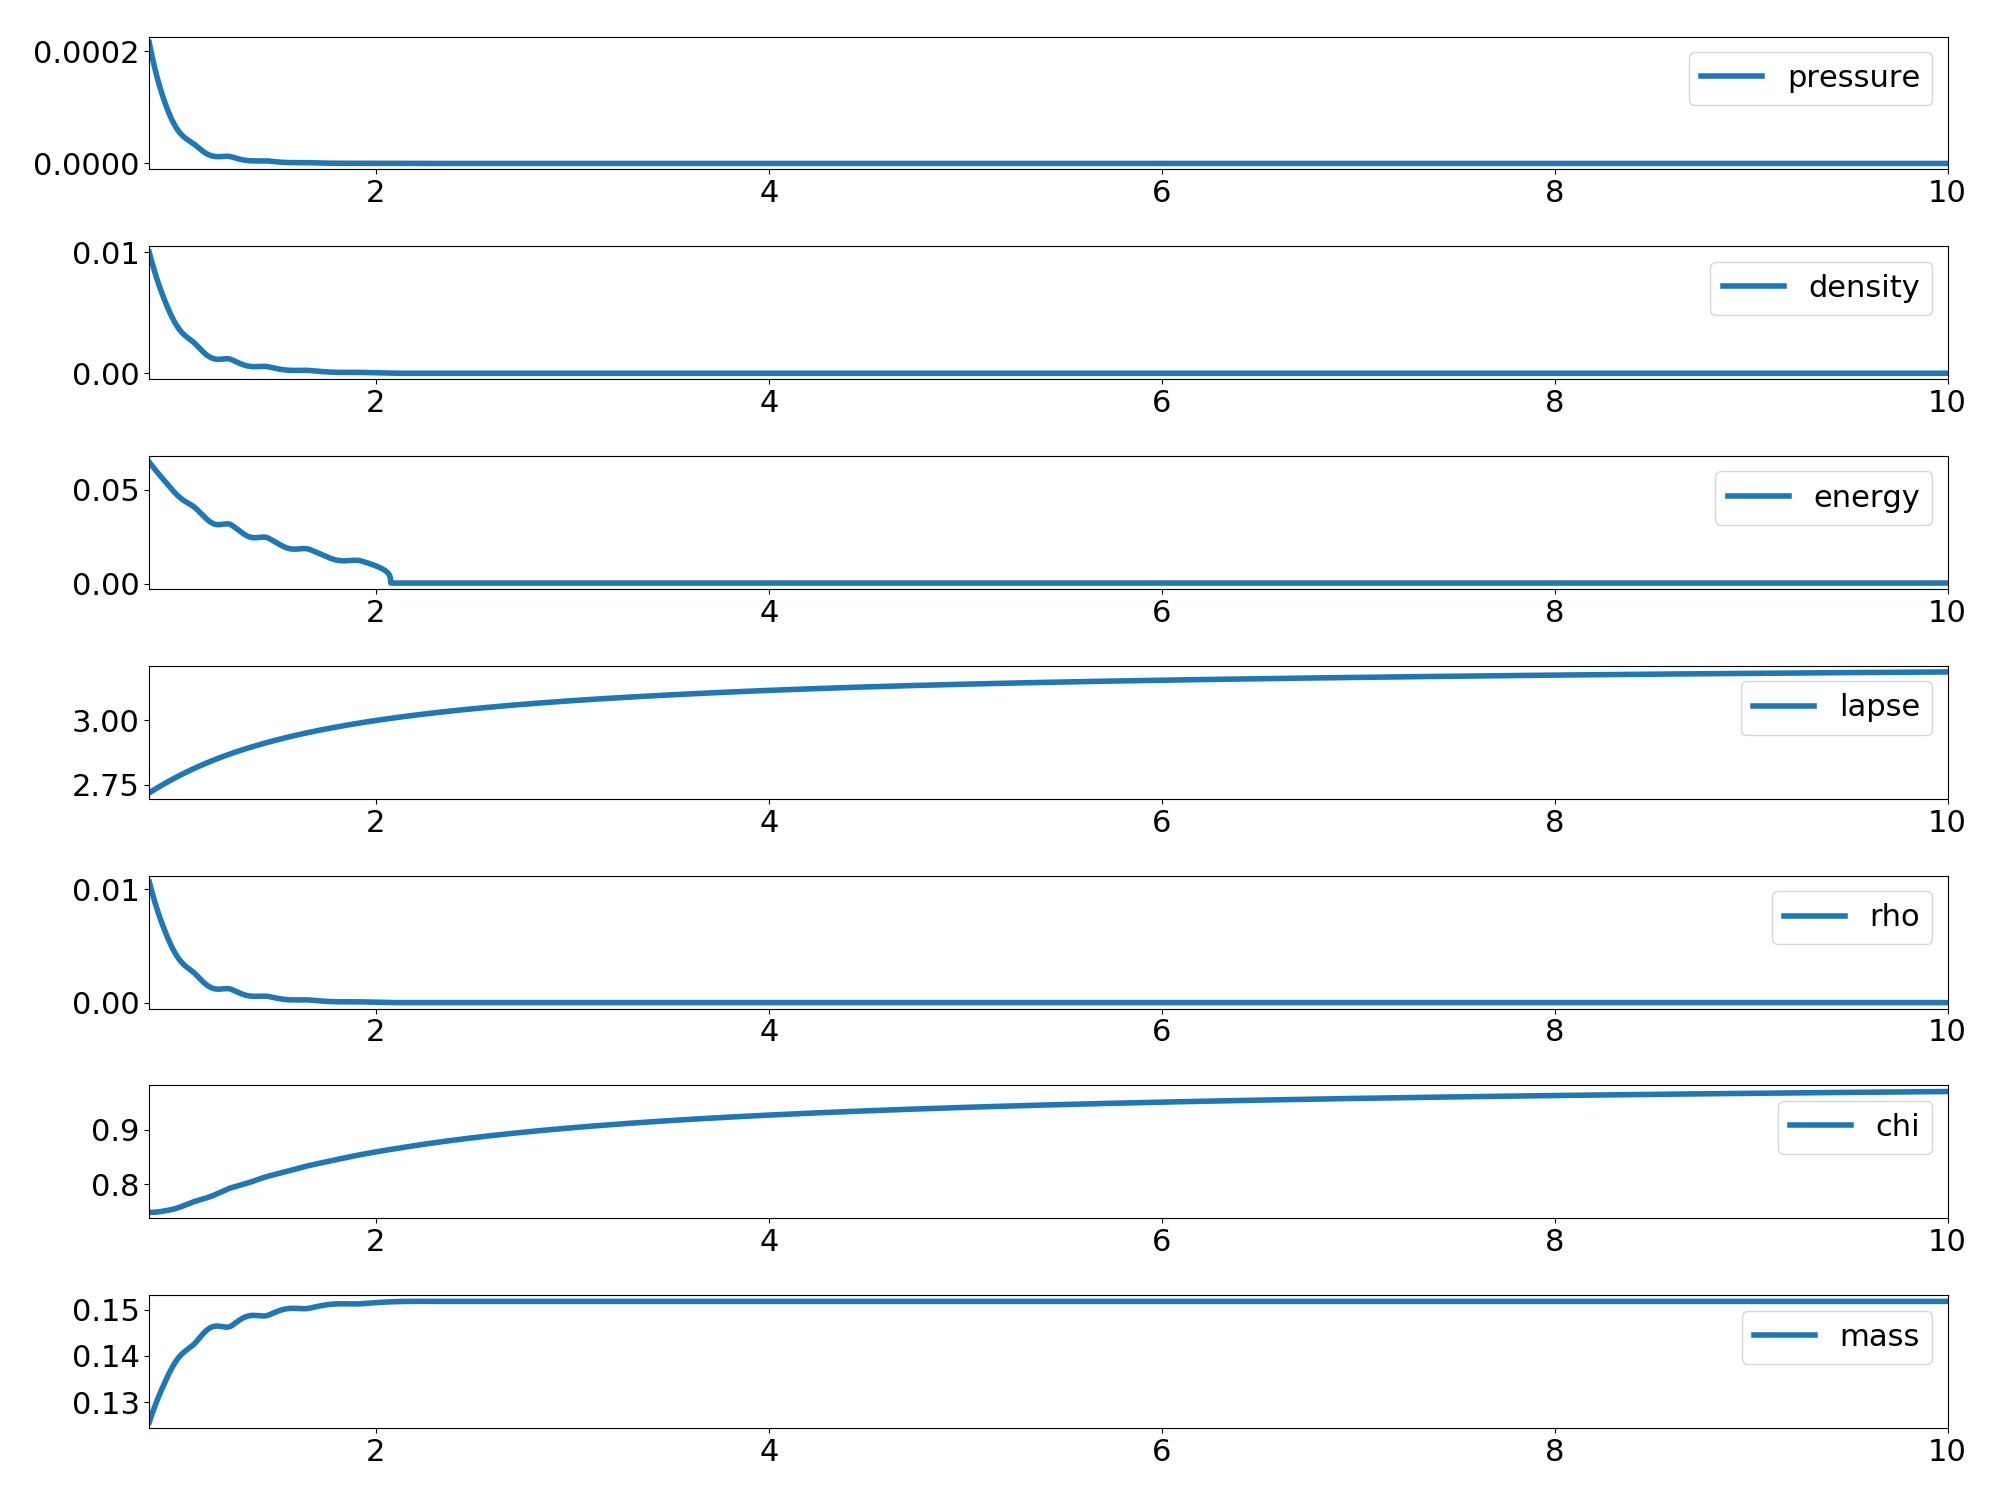
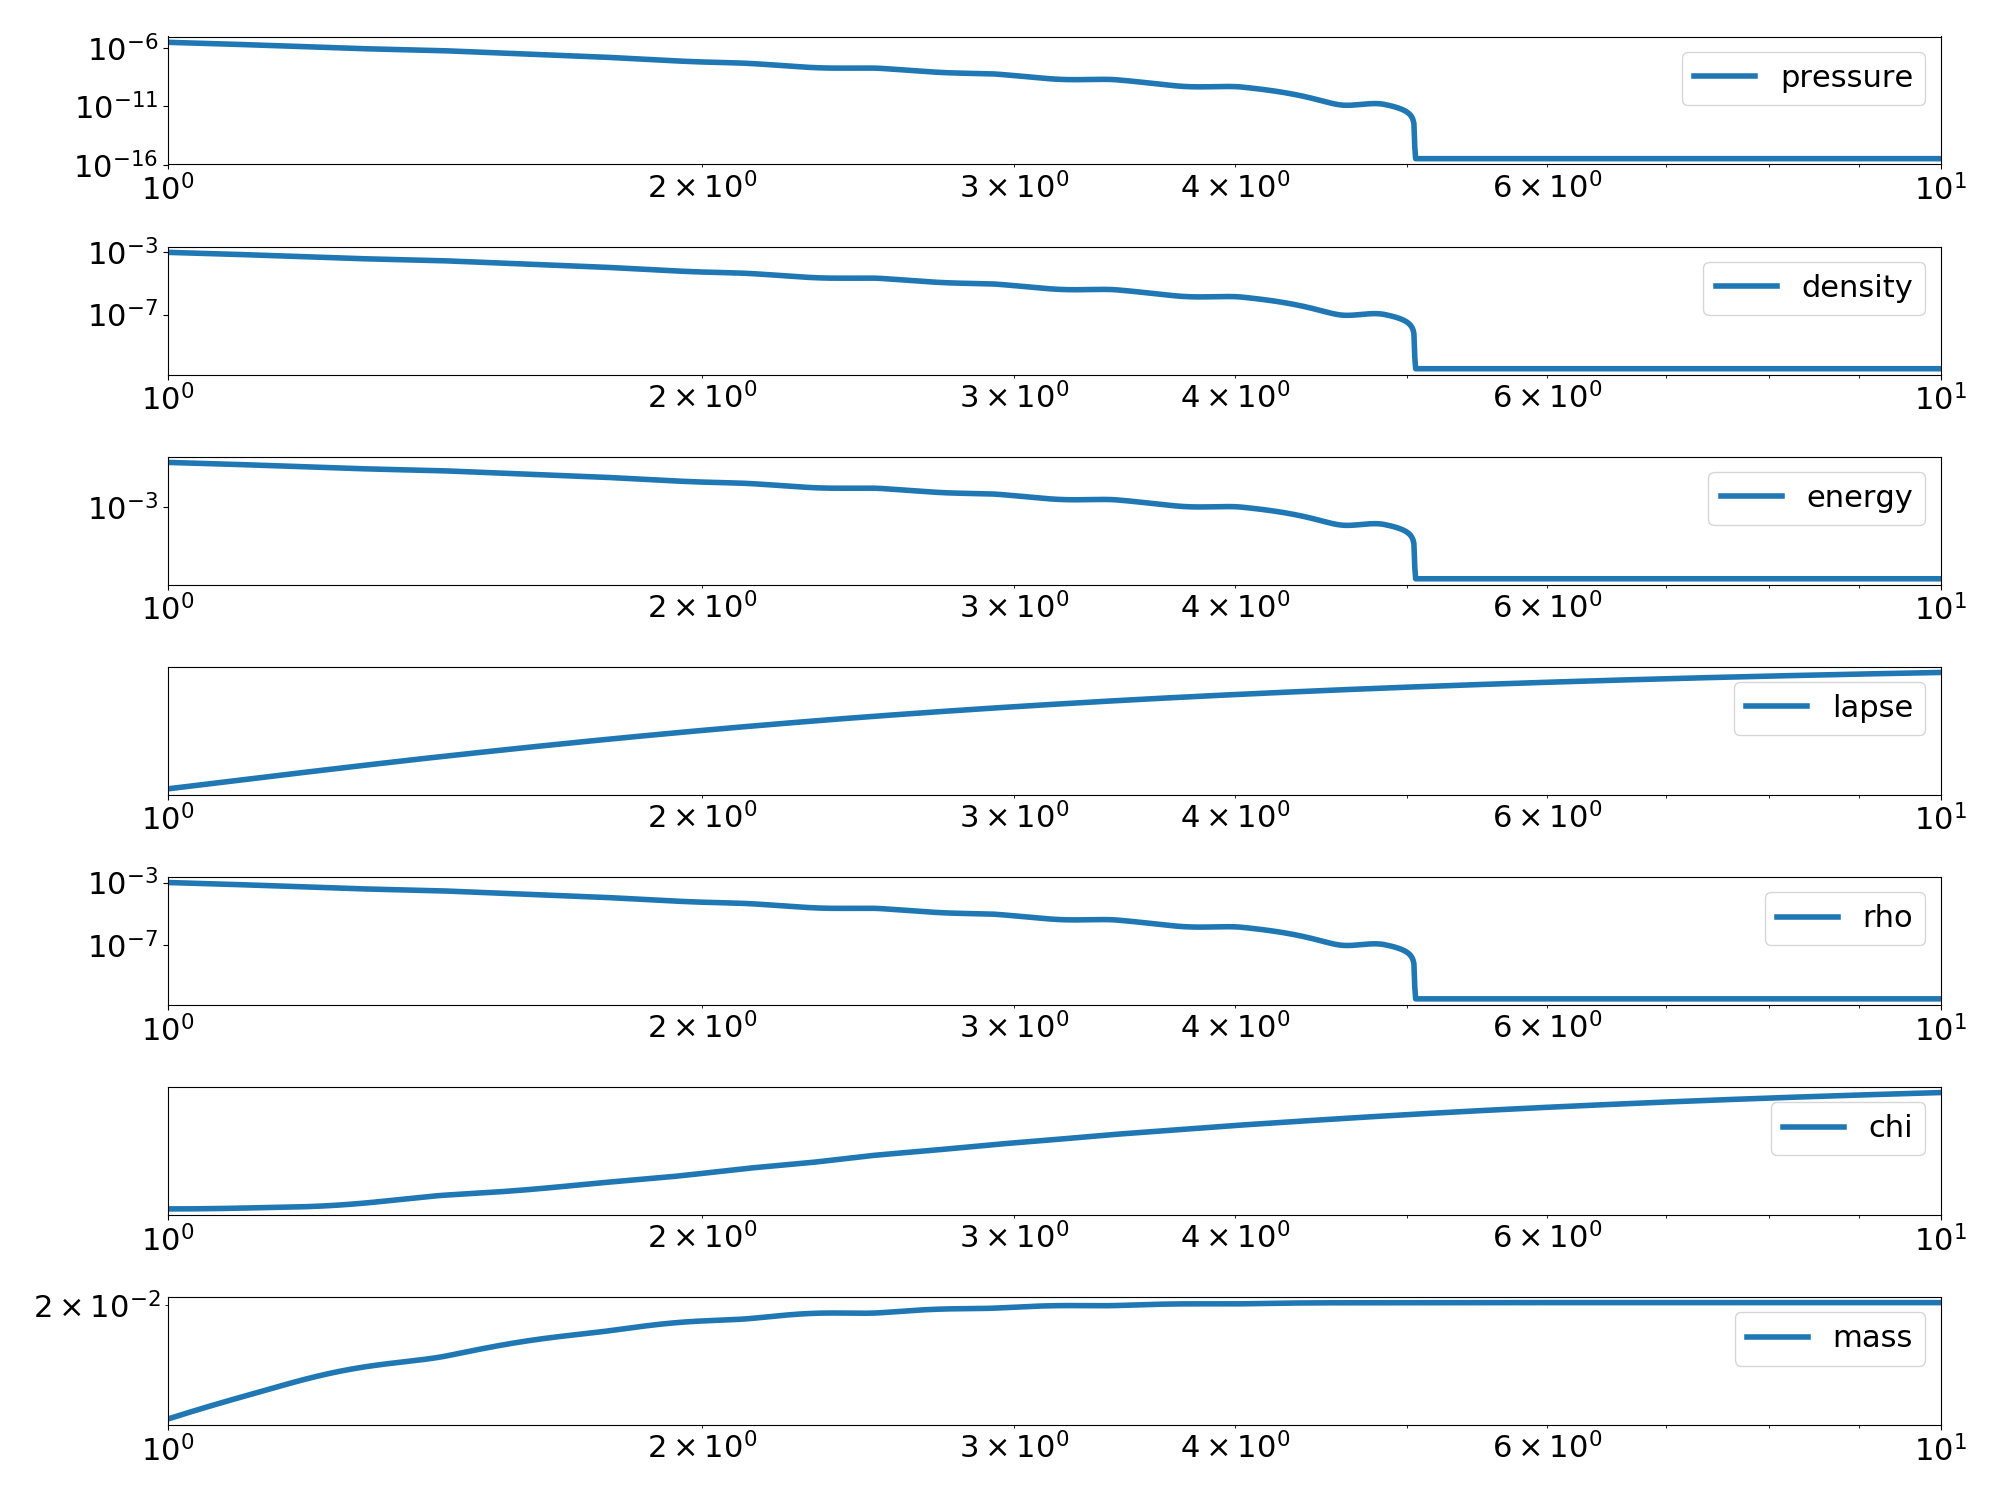
minor updates

diff --git a/tov.py b/tov.py
@@ -43,7 +43,8 @@ class eos:
 
     # energy density_adm = density * (1 + energy)
     def rho_from_density(self, density):
-        return (1.0 + self.a) * density + (self.K / (self.G - 1)) * density ** self.G
+        # return (1.0 + self.a) * density + (self.K / (self.G - 1)) * density ** self.G
+        return density + (self.K / (self.G - 1)) * density ** self.G
 
     # for inverse functions lets define  density (P)
     def density_from_pressure(self, pressure):
@@ -64,11 +65,11 @@ class tov:
         self.physical_eos = peos
         self.r0 = r0
         self.rf = rf
-        self.verbose= verbose
+        self.verbose = verbose
 
 
     def tov(self, y, r):
-        P, mass, lna, lnpsi = y
+        P, mass, lna = y
         rho = self.physical_eos.density_from_pressure(P)
 
         dPdr = -nu.G * (rho + P / nu.c ** 2) * (mass + 4.0 * pi * r ** 3 * P / nu.c ** 2)
@@ -76,12 +77,11 @@ class tov:
         dmdr = 4.0 * pi * r ** 2 * rho
 
         dlnadr = (mass + 4*pi*r**3*P)/ (r * (r - 2.0 * nu.G * mass / nu.c ** 2))
-        dlnpsidr = (r**0.5 - (r - 2.0 * nu.G * mass / nu.c ** 2)**0.5) / (r * (r - 2.0 * nu.G * mass / nu.c ** 2)**0.5)
 
-        return [dPdr, dmdr, dlnadr, dlnpsidr]
+        return [dPdr, dmdr, dlnadr]
 
     def tov_ivp(self, r, y):
-        P, mass, lna, lnpsi = y
+        P, mass, lna = y
         rho = self.physical_eos.density_from_pressure(P)
 
         dPdr = -nu.G * (rho + P / nu.c ** 2) * (mass + 4.0 * pi * r ** 3 * P / nu.c ** 2)
@@ -89,18 +89,19 @@ class tov:
         dmdr = 4.0 * pi * r ** 2 * rho
 
         dlnadr = (mass + 4*pi*r**3*P)/ (r * (r - 2.0 * nu.G * mass / nu.c ** 2))
-        dlnpsidr = 0#*(r**0.5 - (r - 2.0 * nu.G * mass / nu.c ** 2)**0.5) / (r * (r - 2.0 * nu.G * mass / nu.c ** 2)**0.5)
 
-        return [dPdr, dmdr, dlnadr, dlnpsidr]
+        return [dPdr, dmdr, dlnadr]
 
     def ode_radius(self, r, y):
         lapse0, psi0 = y
         P = self.pressure_from_radius(r)
         mass = self.mass_from_radius(r)
         dlnadr = (mass + 4 * pi * r ** 3 * P) / (r * (r - 2.0 * nu.G * mass / nu.c ** 2))
-        dlnpsidr = (r**0.5 - (r - 2.0 * nu.G * mass / nu.c ** 2)**0.5) / (r * (r - 2.0 * nu.G * mass / nu.c ** 2)**0.5)
+        lamb = (r**0.5 - (r - 2.0 * nu.G * mass / nu.c ** 2)**0.5) / (r * (r - 2.0 * nu.G * mass / nu.c ** 2)**0.5)
 
-        return [dlnadr, dlnpsidr]
+        # print(dlnadr)
+
+        return [dlnadr, lamb]
 
     def tovsolve(self, density_central):
 
@@ -111,32 +112,28 @@ class tov:
         rho_0 = self.physical_eos.density_from_pressure(P_0)
         mass_0 = 4.0 * pi * r[0] ** 3 * rho_0
         lna_0 = 1
-        lnpsi_0 = -10
-
 
         # intmethod = "odeint"
         intmethod = "ivp"  # does not work for sys of diff.eqs ???
 
         if intmethod == "odeint":
-            psol = odeint(self.tov, [P_0, mass_0, lna_0, lnpsi_0], r, t)  # , rtol=1.0e-4, atol=1.0e-4)
+            psol = odeint(self.tov, [P_0, mass_0, lna_0], r, t)  # , rtol=1.0e-4, atol=1.0e-4)
             press = psol[:, 0]
             mass = psol[:, 1]
             lna_old = psol[:, 2]
-            lnpsi_old = psol[:, 3]
         elif intmethod == "ivp":
-            sol = solve_ivp(self.tov_ivp, [r0, rf], [P_0, mass_0, lna_0, lnpsi_0])
+            sol = solve_ivp(self.tov_ivp, [r0, rf], [P_0, mass_0, lna_0])
             r = sol.t
-            rrange = 10.0**np.linspace(np.log10(r[0]), np.log10(r[-1]), N)
-            sol = solve_ivp(self.tov_ivp, [r0, rf], [P_0, mass_0, lna_0, lnpsi_0], t_eval=rrange)
+            rrange = 10.0 ** np.linspace(np.log10(r[0]), np.log10(r[-1]), N)
+            sol = solve_ivp(self.tov_ivp, [r0, rf], [P_0, mass_0, lna_0], t_eval=rrange)
             r = sol.t
             press = sol.y[0]
             mass = sol.y[1]
             lna_old = sol.y[2]
-            lnpsi_old = sol.y[3]
         else:
             return "error"
 
-        return r, press, mass, lna_old, lnpsi_old
+        return r, press, mass, lna_old
 
     def mass_radius(self): #TODO: not useful
         N = 10
@@ -149,7 +146,7 @@ class tov:
         mass_max = 0.0
         j = 0
         for rhoc in rhocs:
-            rad, press, mass, lna, lnpsi = self.tovsolve(rhoc)
+            rad, press, mass, lna = self.tovsolve(rhoc)
 
             # rad /= 1.0e5  # cm to km
             # mass /= nu.Msun
@@ -177,7 +174,7 @@ class tov:
 
     def solve_with_atm(self, density_central):
 
-        rad, press, mass, lna_old, lnpsi_old = self.tovsolve(density_central)
+        rad, press, mass, lna = self.tovsolve(density_central)
 
         atm_indx = []
         p_min = np.max(press)
@@ -190,50 +187,51 @@ class tov:
                 atm_indx.append(i)
 
         # add atmosphere
-        press[atm_indx] = p_min * 0.001
-        print("p d atm", p_min * 0.001)
+        # press_atm = p_min * 0.1 if p_min * 0.1 >= 1e-8 else 1e-8
+        press[atm_indx] = p_min * 0.1
+        print("p d atm", p_min * 0.1)
         # def radius and mass of star
         star_lim = atm_indx[0]-1
-        r_star = rad[star_lim]
-        mass_star = rad[star_lim+1]
+        rad_star = rad[star_lim]
+        mass_star = mass[star_lim+1]
 
         density = physical_eos.densities_from_pressure(press)
         rho = physical_eos.rho_from_density(density)
         energy = (K * density ** (G - 1)) / (G - 1)
+        chi = (1 - 2 * mass / rad)   # gamma_rr **-1
 
-        # chi_old = (1 - 2*mass/rad)
-        # chi = np.exp(lnpsi)**2
-        # chi = chi_old
-
-        pressure_from_radius = interp1d(rad, press, bounds_error=False, fill_value='extrapolate')
-        mass_from_radius = interp1d(rad, mass, bounds_error=False, fill_value='extrapolate')
-        self.pressure_from_radius = pressure_from_radius
-        self.mass_from_radius = mass_from_radius
-
-        lna_0 = np.log(1 - 2 * mass_star/rad[-1])
-        lamb_0 = - 0.5*lna_0
-
-        r0, rf = [self.r0, self.rf]
-        sol = solve_ivp(self.ode_radius, [rf, r0], [lna_0, -lamb_0], t_eval=rad[::-1])
-        lna = sol.y[0][::-1]
-        Lamb = - sol.y[1][::-1]  # rh = r * exp(- Lamb) ;; chi = exp(-2*Lamb)
-
-        if not np.all(sol.t[::-1] == rad):
-            print(sol.t)
-            print(rad)
-            raise ValueError("radius do not match")
-
-        lna = lna_old
-
-        # chi = np.exp(-2 * Lamb)
-        chi = (1 - 2 * mass/rad)
-        rad_iso = rad * np.exp(- Lamb)
-        rad = rad_iso  ## convert to isotropic cordinates,  radius
-
-        # print(chi_old - chi)
-        # lnpsi = lnpsi - np.min(lnpsi)
-        # print(lnpsi)
-
+        # # chi_old = (1 - 2*mass/rad)
+        # # chi = np.exp(lnpsi)**2
+        # # chi = chi_old
+        #
+        # pressure_from_radius = interp1d(rad, press, bounds_error=False, fill_value='extrapolate')
+        # mass_from_radius = interp1d(rad, mass, bounds_error=False, fill_value='extrapolate')
+        # self.pressure_from_radius = pressure_from_radius
+        # self.mass_from_radius = mass_from_radius
+        #
+        # lna_0 =  np.log(1 - 2 * mass_star/rad[-1])
+        # lamb_0 = - 0.5*lna_0
+        #
+        # r0, rf = [self.r0, self.rf]
+        # sol = solve_ivp(self.ode_radius, [rf, r0], [lna_0, -lamb_0], t_eval=rad[::-1])
+        # lna = sol.y[0][::-1]
+        # Lamb = - sol.y[1][::-1]  # rh = r * exp(- Lamb) ;; chi = exp(-2*Lamb)
+        #
+        # # lna = -2*Lamb
+        #
+        # print(np.exp(lna_0),  np.exp(lna))
+        #
+        # if not np.all(sol.t[::-1] == rad):
+        #     print(sol.t)
+        #     print(rad)
+        #     raise ValueError("radius do not match")
+        #
+        # # lna = lna_old
+        #
+        # # chi = np.exp(-2 * Lamb)
+        # chi = (1 - 2 * mass/rad)
+        # rad_iso = rad * np.exp(- Lamb)
+        # rad = rad_iso  ## convert to isotropic cordinates,  radius
 
 
         out = dict()
@@ -247,8 +245,8 @@ class tov:
         out['rad'] = rad
 
         other = dict()
-        other['rad_star'] = rad[atm_indx]
-        other['mass_star'] = mass[-1]
+        other['rad_star'] = rad_star
+        other['mass_star'] = mass_star
 
         return out, other
 
@@ -261,10 +259,13 @@ if __name__ == "__main__":
 
     plt.rcParams.update({'font.size': 22})
 
-    K = 0.1
+    K = 0.03
     G = 4./3
     omega = G - 1
-    density_central = 1e-2
+    density_central = 0.001
+
+    create_data = True
+    # create_data = False
 
     physical_eos = eos(K, G)
     # eos = glue_crust_and_core(SLyCrust, dense_eos)
@@ -298,10 +299,10 @@ if __name__ == "__main__":
 
     out, other = t.solve_with_atm(density_central)
 
-    rad_star = other['rad_star'][0]
+    rad_star = other['rad_star']
     putL = int(np.log10(rad_star))+1
 
-    print("R star less than", 10**putL, "  app.", other['rad_star'][0])
+    print("R star less than", 10**putL, "  app.", other['rad_star'])
     print("M star is  ", other['mass_star'])
 
     nplots = 7
@@ -321,8 +322,8 @@ if __name__ == "__main__":
 
 
     for ax in axs[:]:
-        # ax.set_yscale('log')
-        # ax.set_xscale('log')
+        ax.set_yscale('log')
+        ax.set_xscale('log')
         xmin = out['rad'][0] if  out['rad'][0] > 0.01 else 0.01
         ax.set_xlim( xmin, 10**putL)
         ax.legend()
@@ -334,13 +335,14 @@ if __name__ == "__main__":
 
 
     ##### Create data
-    create_data = True
     if create_data:
 
-        N = 120
+        N = 128
         L = 10**putL
-        dt_multiplier = 0.01
+        dt_multiplier = 0.0001
         periodic_BCs = False
+
+        print("creating data with domain: L = {},  N = {}".format(L, N))
 
         radius = out["rad"]
         f_density = interp1d(radius, out['density'], bounds_error=False, fill_value='extrapolate')
@@ -556,5 +558,7 @@ if __name__ == "__main__":
             l0.create_dataset("data:datatype=0", data=fdset)
 
             h5file.close()
+
+            print("Done!")
 
 
